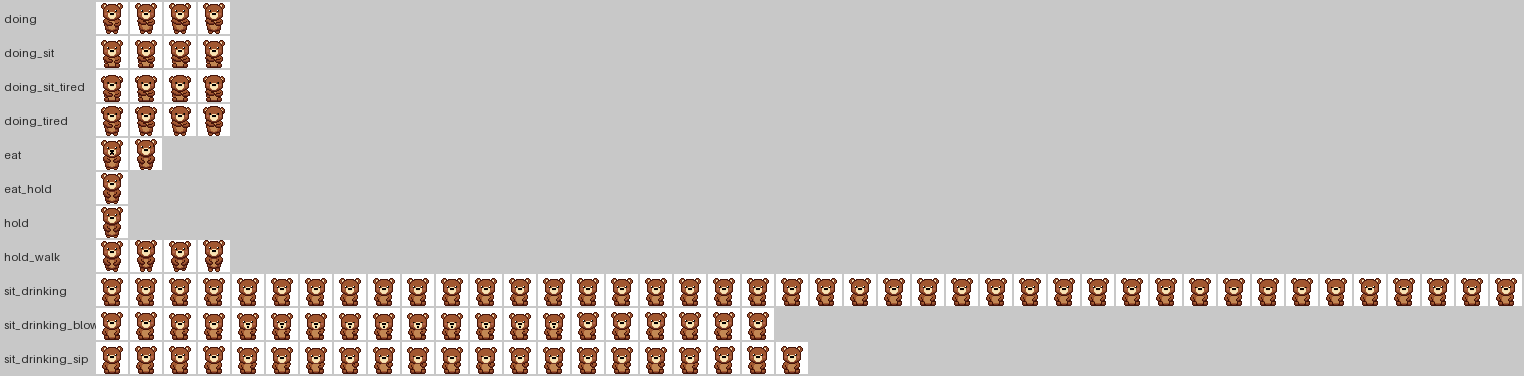
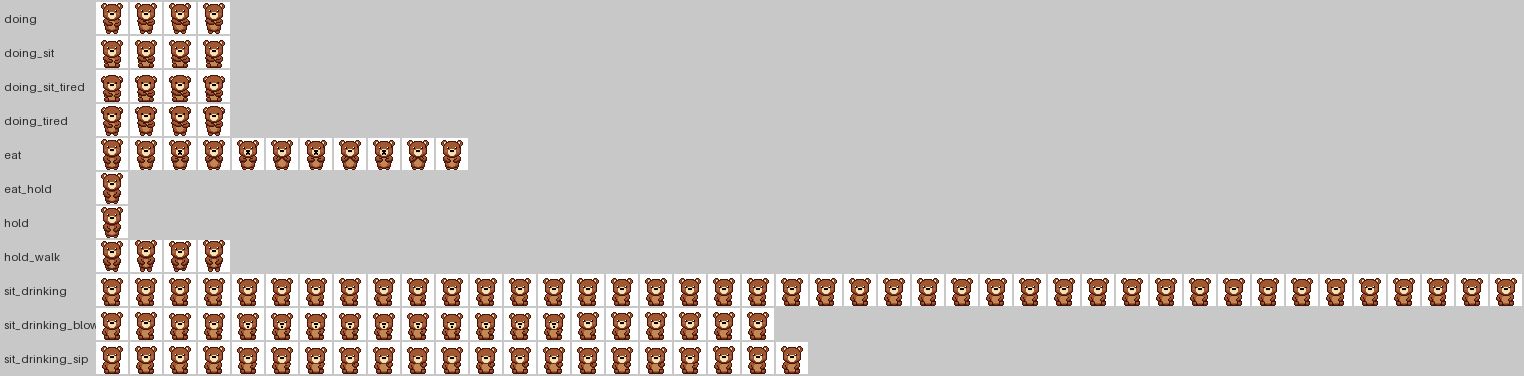
New eat animation from Tut (11 frames: lifts the food and chews three times; fps 6, one or two cycles per bite) with a fresh clothes-map draft and food points; food in the paws is bigger (0.8 instead of 0.6); new clothes and hold sheets
Claude-Session: https://claude.ai/code/session_018yUitM4zMV3L9odfX6GAV1

Changed region(s): [[0.0617, 0.3511, 0.3084, 0.4681]]

diff --git a/tools/held_sheet.py b/tools/held_sheet.py
@@ -1,6 +1,7 @@
 """Лист с всичко, което мечето държи в лапите, както го рисува програмата.
 
     python tools/held_sheet.py        -> art_templates/held_items.png
+    python tools/held_sheet.py eat    -> art_templates/held_items_eat.png (само тези анимации)
 
 За всеки предмет: анимацията, в която го държи (до 4 кадъра), без дрехи. Предметът е
 на синята точка от hold_sheet. Където анимацията е с item_below_arm (anim.json),
@@ -11,6 +12,7 @@
 
 import json
 import os
+import sys
 
 from PIL import Image, ImageDraw, ImageFont
 
@@ -72,7 +74,7 @@ def items():
     foods = sorted(f[:-4] for f in os.listdir(PROPS) if f.startswith("food_") and f.endswith(".png") and not f.endswith("_menu.png"))
     for f in foods:
         for anim in ("eat", "eat_hold"):
-            out.append((f[5:], anim, "cup", os.path.join(PROPS, f + ".png"), "over", 0.6))
+            out.append((f[5:], anim, "cup", os.path.join(PROPS, f + ".png"), "over", 0.8))
     gifts = sorted(f[:-4] for f in os.listdir(PROPS) if f.startswith("gift") and f.endswith(".png") and "_open" not in f)
     for g in gifts:
         for anim in ("hold", "hold_walk"):
@@ -132,11 +134,11 @@ def render(title, anim, point_layer, art_path, how, scale, below):
     return cells
 
 
-def main():
+def main(only=()):
     with open(os.path.join(BEAR, "anim.json"), encoding="utf-8") as fh:
         data = json.load(fh)
     anims = data.get("animations", data)
-    rows = items()
+    rows = [r for r in items() if not only or r[1].startswith(tuple(only))]
     label_w, gap, per_row = 170, 8, 3
     block_w = label_w + 4 * (CELL + 2) + gap * 2
     row_h = CELL + 22
@@ -153,9 +155,10 @@ def main():
         d.text((x0, y0 + CELL // 2 + 2), anim + (" · под ръцете" if below else ""), fill=(110, 110, 110), font=font(11))
         for j, cell in enumerate(render(title, anim, pl, path, how, scale, below)):
             sheet.paste(cell, (x0 + label_w + j * (CELL + 2), y0))
-    sheet.save(OUT)
-    print(os.path.relpath(OUT, ROOT), sheet.size, len(rows), "предмета")
+    out = OUT if not only else OUT.replace(".png", "_" + "_".join(only) + ".png")
+    sheet.save(out)
+    print(os.path.relpath(out, ROOT), sheet.size, len(rows), "предмета")
 
 
 if __name__ == "__main__":
-    main()
+    main(sys.argv[1:])

diff --git a/src/Mecho/PetWindow.Eating.cs b/src/Mecho/PetWindow.Eating.cs
@@ -42,12 +42,12 @@ public sealed partial class PetWindow
     /// <summary>Пауза: само държи храната (2–6 секунди), после хапва.</summary>
     private void EatHold(double seconds) => Play("eat_hold", length: seconds, after: EatBite);
 
-    /// <summary>Една хапка: дъвче (анимацията се върти 3–6 пъти).</summary>
+    /// <summary>Една хапка: дъвче (анимацията – вдига храната и сдъвква три пъти – веднъж или два пъти).</summary>
     private void EatBite()
     {
         if (_eating is not { } food) return;
         if (_rng.Next(3) == 0) Say(Lines.Pick(FoodTalk.For(food).Chew, _save.OwnerName), 2);
-        Play("eat", length: _lib.Get("eat").Duration * (3 + _rng.Next(4)), after: () =>
+        Play("eat", length: _lib.Get("eat").Duration * (1 + _rng.Next(2)), after: () =>
         {
             if (--_bitesLeft > 0) EatHold(2.5 + _rng.NextDouble() * 3.5);
             else EatDone();
@@ -285,7 +285,7 @@ public sealed partial class PetWindow
         if (!on) return Rect.Empty;
         System.Windows.Media.RenderOptions.SetBitmapScalingMode(_held, System.Windows.Media.BitmapScalingMode.NearestNeighbor);
         var img = (BitmapSource)_held.Source!;
-        double scale = 0.6 * (0.45 + 0.55 * Math.Max(1, _bitesLeft) / Math.Max(1, _bitesTotal));
+        double scale = 0.8 * (0.45 + 0.55 * Math.Max(1, _bitesLeft) / Math.Max(1, _bitesTotal));
         double w = img.PixelWidth * PixelSize * scale, h = img.PixelHeight * PixelSize * scale;
         _held.Width = w;
         _held.Height = h;
